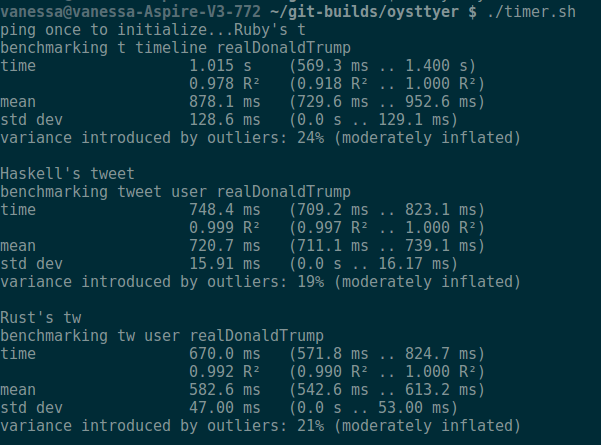
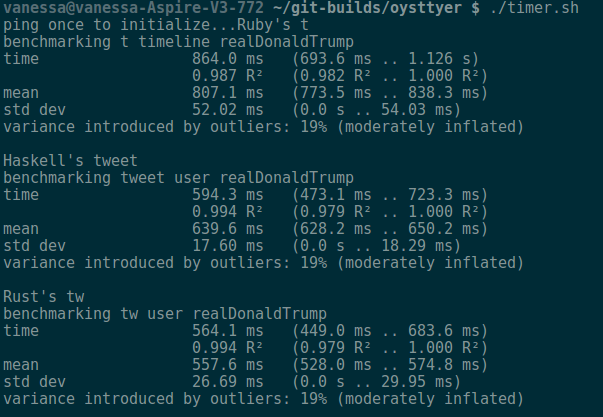
update benchmark results

Changed region(s): [[0.0, 0.0, 0.9584, 0.3429], [0.0, 0.3741, 0.8686, 0.6547], [0.0, 0.6859, 0.8686, 0.9976]]

diff --git a/src/lib.rs b/src/lib.rs
@@ -54,7 +54,7 @@ pub fn get_credentials(contents: &str) -> (Token, Token) {
     (key, token)
 }
 
-/// Display the raw JSON of a response, useful for debugging.
+/// Display the raw JSON of a response; useful for debugging.
 pub fn profile_raw(api_key: &Token, token: &Token) {
     let mut param = HashMap::new();
     let _ = param.insert("screen_name".into(), "".into());
@@ -165,7 +165,6 @@ pub fn follow(screen_name: &str, api_key: &Token, token: &Token) {
     let mut param = HashMap::new();
     let _ = param.insert("screen_name".into(), screen_name.into());
     let _ = oauth_client::post(api::FOLLOW, api_key, Some(token), Some(&param)).unwrap();
-    // TODO better message?
     println!("{} followed succesfully!", screen_name);
 }
 
@@ -174,7 +173,6 @@ pub fn unfollow(screen_name: &str, api_key: &Token, token: &Token) {
     let mut param = HashMap::new();
     let _ = param.insert("screen_name".into(), screen_name.into());
     let _ = oauth_client::post(api::UNFOLLOW, api_key, Some(token), Some(&param)).unwrap();
-    // TODO better message?
     println!("{} unfollowed succesfully!", screen_name);
 }
 /// Display timeline. Takes number of tweets to return as
@@ -192,7 +190,6 @@ pub fn print_timeline(num: u8, show_ids:bool, api_key: &Token, token: &Token) {
     let mut param = HashMap::new();
     let _ = param.insert("count".into(), num_str.into()); 
     let bytes_raw = oauth_client::get(api::TIMELINE, api_key, Some(token), Some(&param)).unwrap();
-    // convert vector of u8's to &[u8] (array slice)
     let bytes_slice = bytes_raw.as_slice();
     let parsed_maybe = parse::parse_tweets(bytes_slice);
     if let IResult::Done(_,parsed) = parsed_maybe {

diff --git a/TODO.md b/TODO.md
@@ -1,9 +1,12 @@
 - [ ] use [smallvec](https://github.com/servo/rust-smallvec) for char vectors?
+- [x] image w/ up-to-date benchmark
+- [ ] emoji
 - [x] fix parser so it skips user entities?
-  - [x] fix 
+  - [x] fix
   - [x] get RTs correct on quote statuses
   - [x] include quoted tweets
 - [ ] toml parser for config?
+- [x] clippy lints
 - [x] option to disable color/fancy retweet symbol
   - [x] disable fancy unicode
 - [x] parse unicode
@@ -15,13 +18,11 @@
 - [x] separate functions to return tweets vs. print them.
 - [x] step 1 is to parse the id string
 - [x] reply subcommand?
-- [x] delete? 
-- [ ] "login" guided command? pin-based login? 
-- [ ] parse config file better
-- [x] time against python/perl/ruby stuff
+- [x] delete?
+- [x] time against haskell/perl/ruby stuff
 - [x] travis ci
 - [x] configure emoji/unicode etc.
 - [ ] add fr/de(/dk/is)
 - [x] make library
-  - [ ] polish/finish
-- [ ] DMs
+  - [ ] nicer types?
+  - [ ] polish
